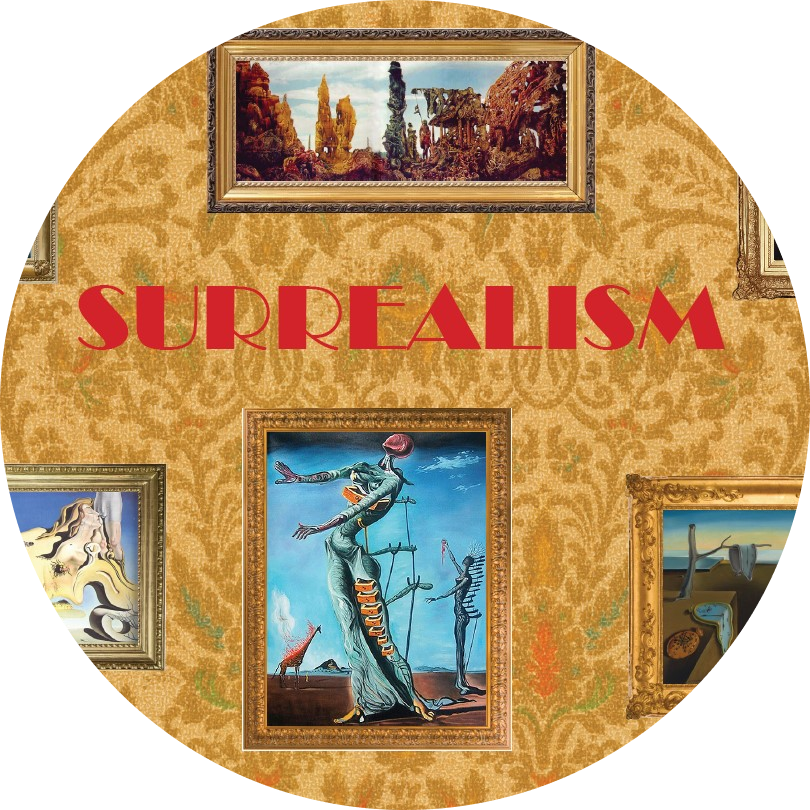
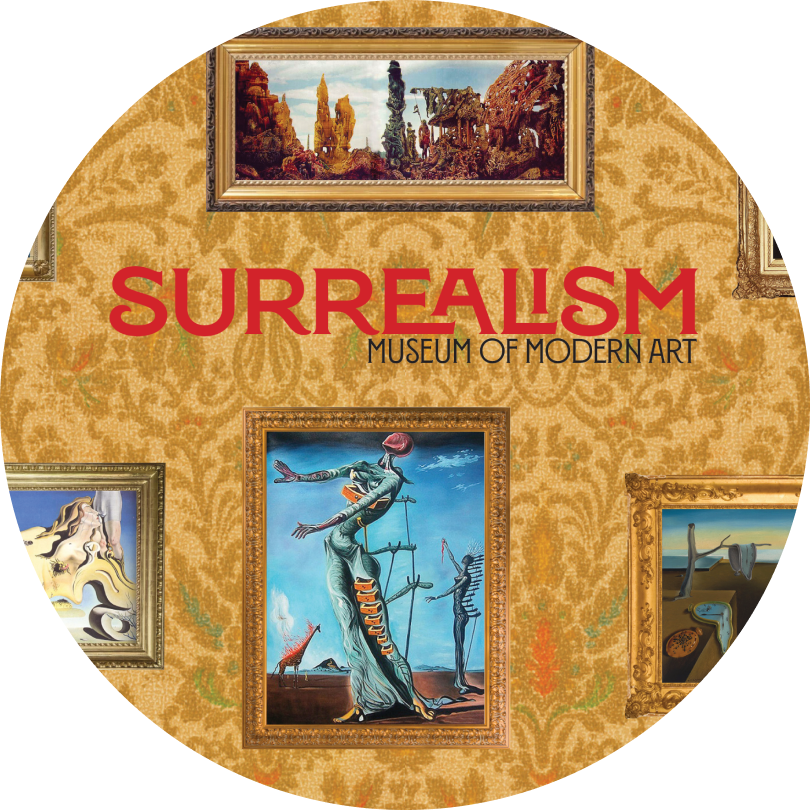
updated portfolio

Changed region(s): [[0.0, 0.0, 1.0, 1.0]]

diff --git a/_site/css/style.css b/_site/css/style.css
@@ -27,7 +27,7 @@ html {
 *:before,
 *:after {
   box-sizing: inherit;
-  font-family: Arial, Helvetica, sans-serif;
+  font-family: system-ui, -apple-system, BlinkMacSystemFont, 'Segoe UI', Roboto, Oxygen, Ubuntu, Cantarell, 'Open Sans', 'Helvetica Neue', sans-serif;
 }
 
 main {

diff --git a/_site/surrealism_museum_postcard.md b/_site/surrealism_museum_postcard.md
@@ -22,13 +22,14 @@ tags:
 
     <p>
         This postcard was created for a hypothetical museum exhibit on Surrealism at the 
-        Museum of Modern Art, as a project for my digital graphic design class. The front 
-        of the postcard features a wall with different paintings hanging on it, representing 
-        the Surrealism time period. To create a realistic effect, the paintings were placed 
-        in frames, and the background of the wall was chosen to resemble a wallpaper style of 
-        the 1920s. The color and font were carefully chosen to fit the time period and enhance 
-        the overall design. The layout was created using InDesign, and the result is a well-crafted 
-        postcard that effectively conveys the message of the museum exhibit.
+        Museum of Modern Art. It was  a project for my Digital Graphic Design class. The 
+        front of the postcard features a wall with different paintings hanging on it, 
+        representing the Surrealist movement. To create a realistic effect, the paintings 
+        were placed in frames, and the background of the wall was chosen to resemble a 
+        wallpaper style of the 1920s. The color and font were carefully chosen to fit the 
+        time period and enhance the overall design. The layout was created using InDesign, 
+        and the result is a well-crafted postcard that effectively conveys the message of 
+        the museum exhibit.
     </p>
 
     <div class="back_function">

diff --git a/_site/the_gallery_website_prototype.md b/_site/the_gallery_website_prototype.md
@@ -20,14 +20,13 @@ tags:
     </p>
 
     <p>
-        In my Multimedia class, I designed a user interface for an e-commerce art 
-        website called "The Gallery" using Figma. My concept was to create a platform 
-        where people can purchase a diverse range of artworks including pottery, 
-        posters, paintings, and more. The website also features artist portfolios 
-        and interactive features to connect customers with the artists. I created a 
-        comprehensive project proposal outlining the development process and created 
-        a prototype, wireframe, and site map using Figma. Check out the link below to 
-        see the complete design and layout.
+        In my Multimedia class, I designed a user interface for an e-commerce art website called 
+        "The Gallery" using Figma. My concept was to create a platform where people can purchase 
+        a diverse range of artworks including pottery, posters, paintings, and more. The website 
+        also features artists’ portfolios and interactive features to connect customers with the 
+        artists. I created a comprehensive project proposal outlining the development process and 
+        created a prototype, wireframe, and site map using Figma. Click on the link below to see 
+        the complete design and layout.
     </p>
 
     <p>

diff --git a/_site/star_ wars_andor_website.md b/_site/star_ wars_andor_website.md
@@ -20,12 +20,14 @@ tags:
   </p>
 
   <p>
-    For my web design class, I designed and developed a two-page website about the "Star Wars: Andor" 
-    series that I love. The website aims to provide a clear and comprehensive about page and episodes' 
-    guide for fans of the show. To achieve this, I first prototyped the layout using Figma and then 
-    translated it into a functional web page using HTML, CSS, and JS with Atom. The design and layout 
-    were carefully thought out to enhance the user experience and create an immersive environment for 
-    fans of the show. Check out the link below to see the working website.
+    For my web design class, I designed and developed a two-page website about 
+    the "Star Wars: Andor" series that I love. The website aims to provide a 
+    clear and comprehensive home page and episodes' guide for fans of the show. 
+    To achieve this, I first prototyped the layout using Figma and then translated 
+    it into a functional web page using HTML, CSS, and JS with Atom. The design 
+    and layout were carefully thought out to enhance the user experience and create 
+    an immersive environment for fans of the show. Click on the link below to see 
+    the working website.
   </p>
 
   <p>

diff --git a/_site/magazine_cover_and_spread.md b/_site/magazine_cover_and_spread.md
@@ -27,11 +27,12 @@ tags:
     </p>
 
     <p>
-        For this project in my Multimedia class, I designed a magazine cover and spread featuring 
-        an upcoming Star Wars game. Using InDesign and Photoshop, I carefully selected and edited 
-        images to perfectly capture the essence of the game. The color scheme I chose reflects the 
-        futuristic and sci-fi themes of the game, while the font I used for the main header in the 
-        spread adds to the overall aesthetic. I combined the text and images seamlessly in InDesign, 
+        For this project in my Multimedia class, I designed a magazine cover and 
+        spread featuring an upcoming “Star Wars” game. Using InDesign and Photoshop, 
+        I carefully selected and edited images to perfectly capture the essence of 
+        the game. The color scheme I chose reflects the futuristic and sci-fi themes 
+        of the game, while the font I used for the main header in the spread adds to 
+        the overall aesthetic. I combined the text and images seamlessly in InDesign, 
         resulting in a visually appealing and cohesive layout.
     </p>
     

diff --git a/_site/web_development_projects.md b/_site/web_development_projects.md
@@ -36,14 +36,4 @@ tags:
     </div>
   </article>
 
-
-  <article class="card">
-    <div class="card__img"><img src="/images/eat_music_website_layout_profile_picture.png"
-        alt="eat_music_website_layout_profile_picture"></div>
-    <div class="card__content">
-      <h1 class="card__header">EAT Music Website Layout</h1>
-      <button class="card__btn"><a href="/eat_music_website_layout">VIEW</a></button>
-    </div>
-  </article>
-
 </section>
